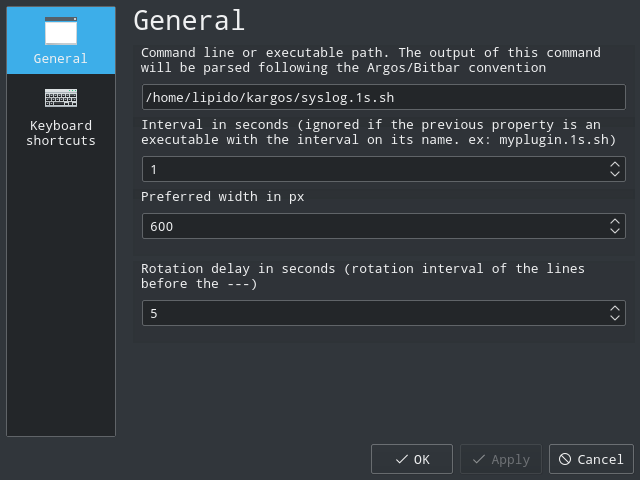
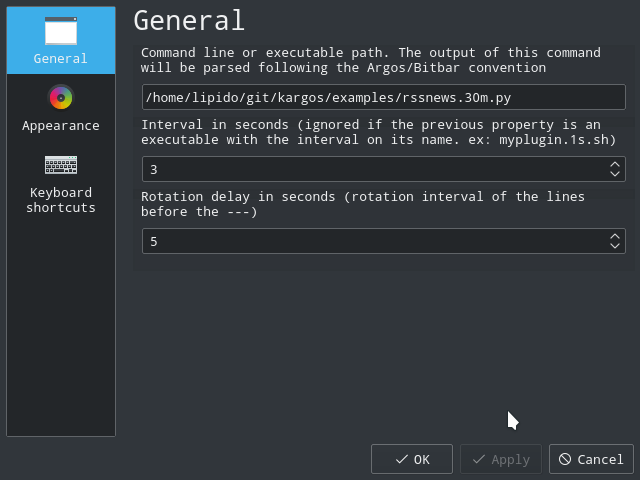
Changes version to 0.6.0

diff --git a/README.md b/README.md
@@ -70,3 +70,22 @@ And then it will produce the following contents in your plasmoid:
 That's all. You can add the a kargo plasmoid to your panel. You have to configure 
 it to indicate the command or executable.
 
+## Another example: a RSS reader
+This a tribute to the KDE 3 KNewsTicker. There are many RSS readers, but the
+concept of KNewsTicker was unique for me. I do not like to open a RSS client
+or take any action to read feeds because, although I can do this the first days,
+in a few days I am not checking them anymore. However, with KNewsTicker, news are
+rotating continuously and in a discrete fashion. However, you will be aware of them
+sooner or later.
+
+KNewsTicker was discontinued and no longer available since KDE 4. But you can
+implement it easily with kargos and Python!
+
+You can find an [example](examples/rssnews.30m.py) of plugin to read your 
+favourite RSS feeds. News will be rotating in your panel and, if you dropdown,
+you can read all the news.
+
+Here are the results!
+
+![kargos RSS plugin](kargos-rss-example.png "kargos options panel")
+
